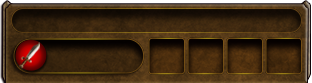
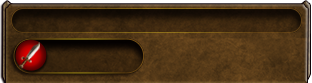
combo ui

Changed region(s): [[0.4615, 0.4578, 0.9808, 0.8916]]

diff --git a/src/com/fight2/scene/CardInfoScene.java b/src/com/fight2/scene/CardInfoScene.java
@@ -134,14 +134,24 @@ public class CardInfoScene extends BaseScene {
         this.topAlignEntity(skillEffectText, 190);
         infoFrame.attachChild(skillEffectText);
 
+        this.setTouchAreaBindingOnActionDownEnabled(true);
+        this.setTouchAreaBindingOnActionMoveEnabled(true);
+        activity.getGameHub().needSmallChatRoom(false);
+        final ITextureRegion texture = TEXTURE_FACTORY.newTextureRegion(card.getImage());
+        if (cardSprite != null) {
+            cardSprite.detachSelf();
+        }
+        cardSprite = new Sprite(this.simulatedLeftX + 108 + CARD_WIDTH * 0.5f, FRAME_BOTTOM + CARD_HEIGHT * 0.5f, CARD_WIDTH, CARD_HEIGHT, texture, vbom);
+        this.attachChild(cardSprite);
+
         final float comboFrameHeight = TextureEnum.CARDINFO_COMBO_FRAME.getHeight();
         final Sprite comboFrame = createALBImageSprite(TextureEnum.CARDINFO_COMBO_FRAME, this.simulatedLeftX + 105, FRAME_BOTTOM - comboFrameHeight);
         this.attachChild(comboFrame);
         final List<ComboSkill> combos = CardUtils.getCardComboSkills(card, activity);
         float comboX = 40;
         for (final ComboSkill combo : combos) {
-            final ITextureRegion texture = TEXTURE_FACTORY.newTextureRegion(combo.getIcon());
-            final Sprite iconSprite = new Sprite(comboX, comboFrameHeight * 0.5f, 60, 60, texture, vbom) {
+            final ITextureRegion iconTexture = TEXTURE_FACTORY.newTextureRegion(combo.getIcon());
+            final Sprite iconSprite = new Sprite(comboX, comboFrameHeight * 0.5f, 90, 90, iconTexture, vbom) {
                 @Override
                 public boolean onAreaTouched(final TouchEvent pSceneTouchEvent, final float pTouchAreaLocalX, final float pTouchAreaLocalY) {
                     if (pSceneTouchEvent.isActionDown()) {
@@ -157,18 +167,8 @@ public class CardInfoScene extends BaseScene {
             };
             this.registerTouchArea(iconSprite);
             comboFrame.attachChild(iconSprite);
-            comboX += 70;
+            comboX += 100;
         }
-
-        this.setTouchAreaBindingOnActionDownEnabled(true);
-        this.setTouchAreaBindingOnActionMoveEnabled(true);
-        activity.getGameHub().needSmallChatRoom(false);
-        final ITextureRegion texture = TEXTURE_FACTORY.newTextureRegion(card.getImage());
-        if (cardSprite != null) {
-            cardSprite.detachSelf();
-        }
-        cardSprite = new Sprite(this.simulatedLeftX + 108 + CARD_WIDTH * 0.5f, FRAME_BOTTOM + CARD_HEIGHT * 0.5f, CARD_WIDTH, CARD_HEIGHT, texture, vbom);
-        this.attachChild(cardSprite);
     }
 
     private ITextureRegion getStarTexture(final Card card) {

diff --git a/src/com/fight2/entity/engine/BattlePartyFrame.java b/src/com/fight2/entity/engine/BattlePartyFrame.java
@@ -134,9 +134,9 @@ public class BattlePartyFrame extends Rectangle {
         int iconX = 166;
         for (final ComboSkill comboSkill : comboSkills) {
             final ITextureRegion texture = TEXTURE_FACTORY.newTextureRegion(comboSkill.getIcon());
-            final Sprite iconSprite = new Sprite(iconX, 58.5f, 30, 30, texture, vbom);
+            final Sprite iconSprite = new Sprite(iconX, 58.5f, 38, 38, texture, vbom);
             battlePartyFrame.attachChild(iconSprite);
-            iconX += 37;
+            iconX += 42;
             comboSpriteMap.put(comboSkill.getId(), iconSprite);
         }
     }
@@ -150,9 +150,9 @@ public class BattlePartyFrame extends Rectangle {
         int iconX = 167;
         for (final ComboSkill comboSkill : comboSkills) {
             final ITextureRegion texture = TEXTURE_FACTORY.newTextureRegion(comboSkill.getIcon());
-            final Sprite iconSprite = new Sprite(iconX, 26.5f, 31, 31, texture, vbom);
+            final Sprite iconSprite = new Sprite(iconX, 26.5f, 38, 38, texture, vbom);
             battlePartyFrame.attachChild(iconSprite);
-            iconX += 39;
+            iconX += 42;
             comboSpriteMap.put(comboSkill.getId(), iconSprite);
         }
     }
